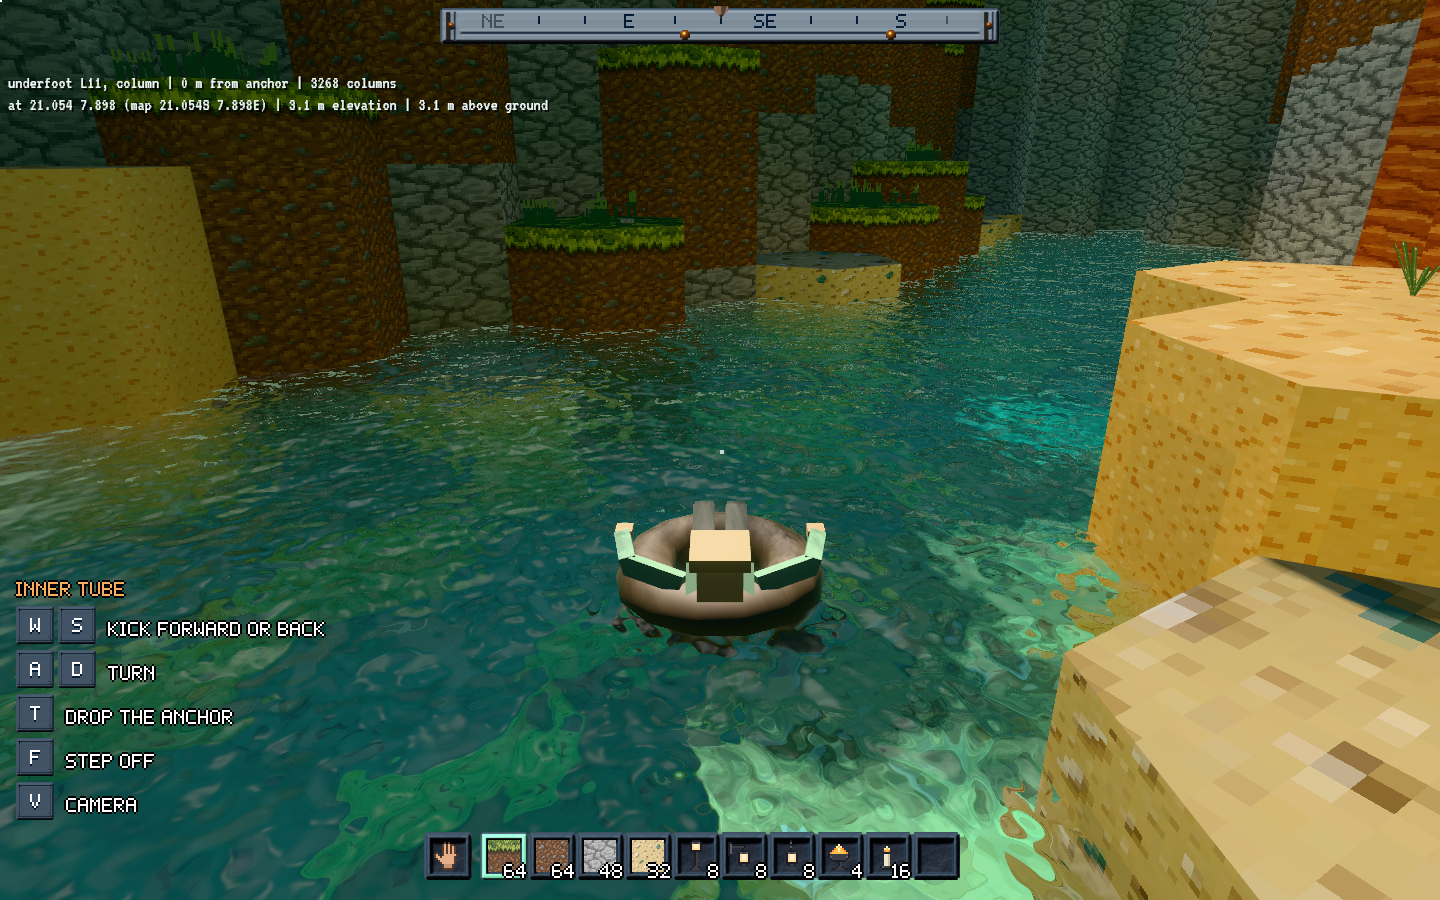
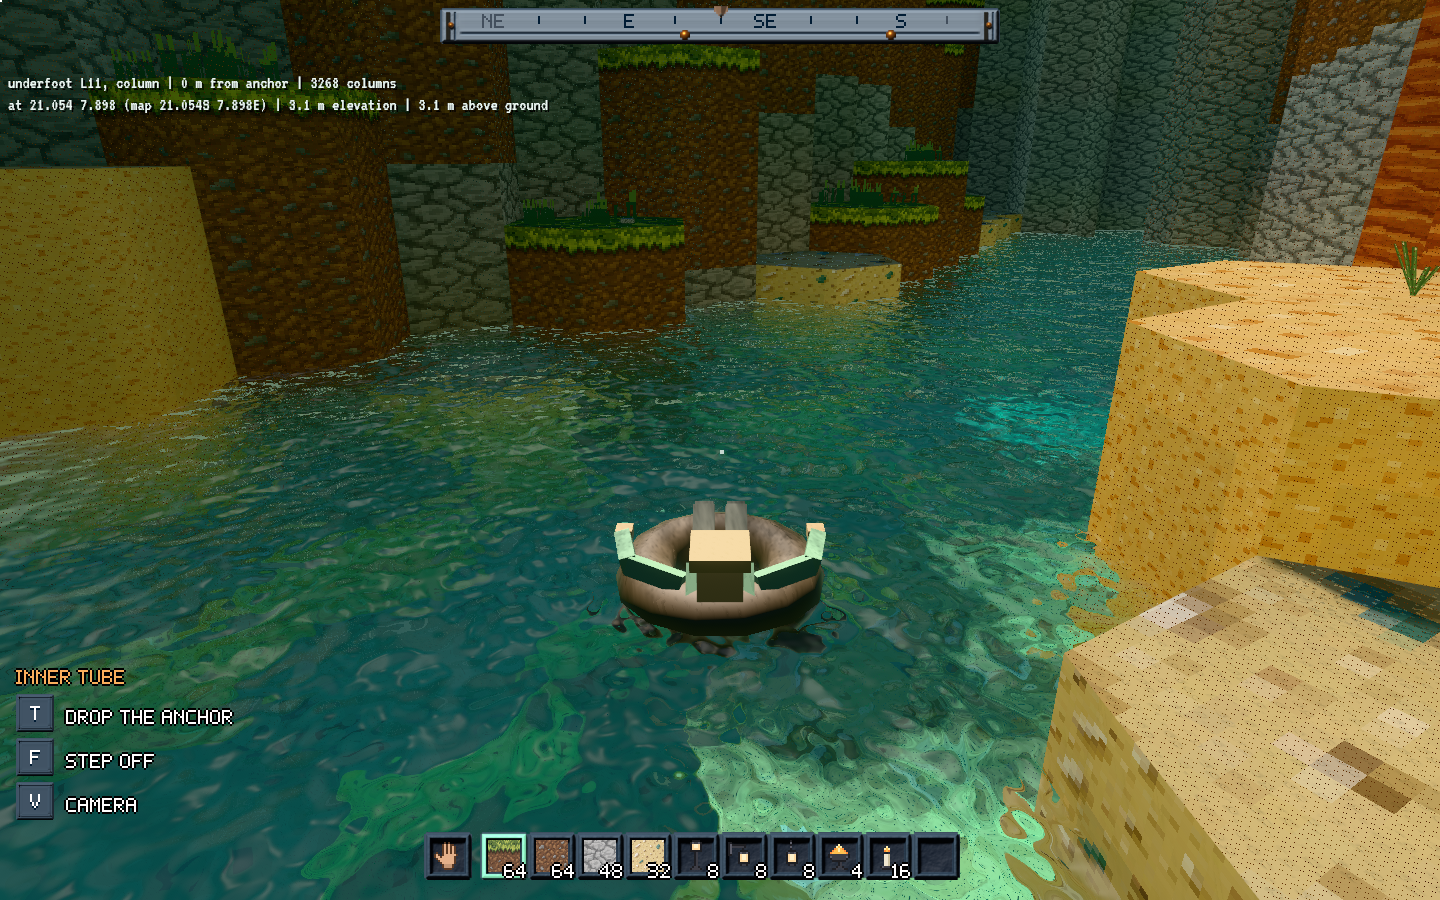
small-boats: the boat panel leaves out moving on W, A, S and D
Owner: "we probably dont need WASD, its obvious enough". A row the player
has rebound to other keys still shows.

Claude-Session: https://claude.ai/code/session_01HdzuTLFpHQDj3CqFAuBEus

diff --git a/crates/pbd-app/src/vehicles/hud.rs b/crates/pbd-app/src/vehicles/hud.rs
@@ -232,6 +232,12 @@ fn panel(vehicle: &Vehicle, binds: &crate::controls::KeyBinds) -> Lines {
         if what == "bail" && !bail {
             continue;
         }
+        // Moving on W, A, S and D goes without saying (owner, 2026-11-16:
+        // "we probably dont need WASD, its obvious enough"); a row the
+        // player has moved to other keys is shown.
+        if keys.iter().all(|k| ["W", "A", "S", "D"].contains(k)) {
+            continue;
+        }
         lines.rows.push((keys, what.to_string()));
     }
     let anchor = match craft.mooring {
@@ -428,15 +434,14 @@ mod tests {
         let text = panel(&v, &Default::default()).text();
         for want in [
             "RAFT",
-            "W/S  pole forward or back",
-            "A/D  turn",
+            "Q/E  steer with the pole",
             "drop the anchor",
             "step off",
             "camera",
         ] {
             assert!(text.contains(want), "missing {want}: {text}");
         }
-        for not in ["m/s", "freeboard", "slip", "bail", "deg"] {
+        for not in ["W/S", "A/D", "m/s", "freeboard", "slip", "bail", "deg"] {
             assert!(!text.contains(not), "{not} in the panel: {text}");
         }
         v.craft.bilge_kg = 80.0;

diff --git a/openspec/changes/small-boats/design.md b/openspec/changes/small-boats/design.md
@@ -137,6 +137,8 @@ key's name with the name carved in as a stone plaque's label is
   - then a row a control, each key its own stone glyph, followed by what it
     does;
   - every word outlined in ink, so it reads over water and sand alike.
+  - no row for moving on W, A, S and D (owner: "we probably dont need WASD,
+    its obvious enough"); a row the player has rebound to other keys shows.
 - The F3 instruments stay plain text, a developer's.
 
 ## 2b. Rivers and lakes float a boat (found building it)
